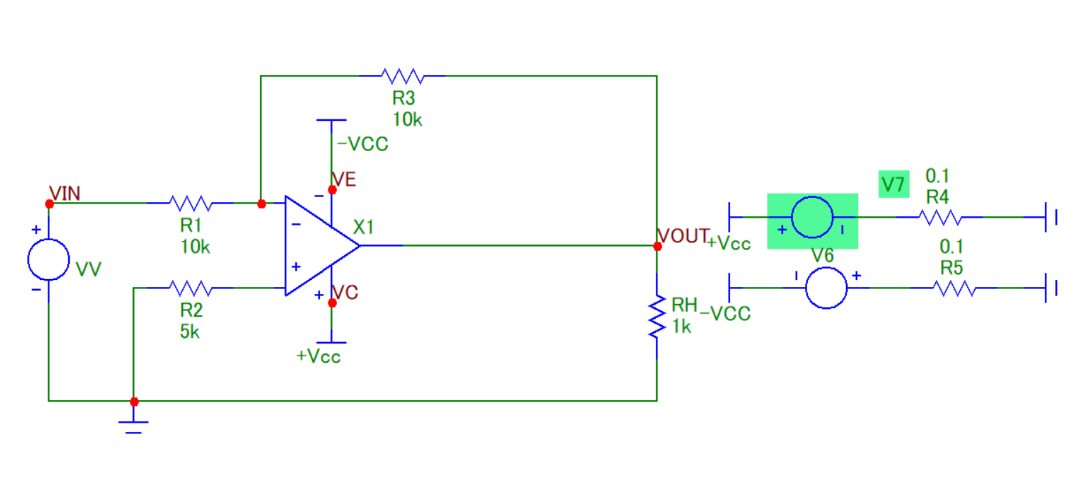
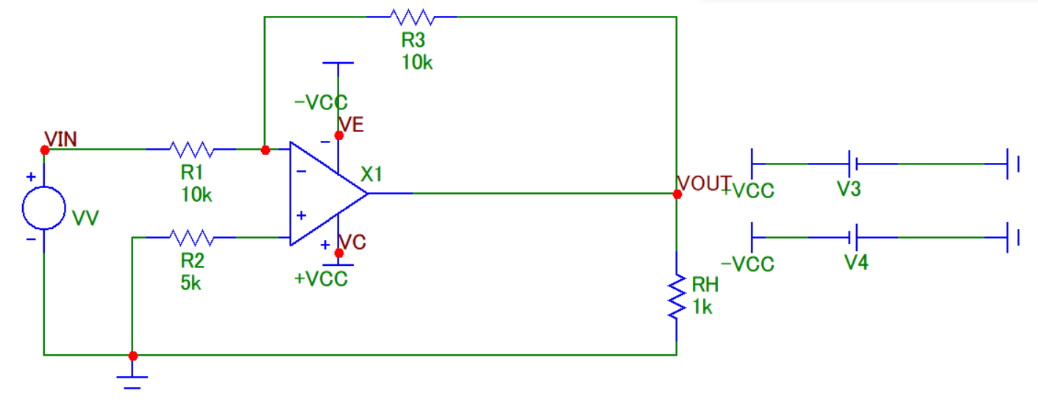
lab2

Changed region(s): [[0.0, 0.2177, 0.9865, 0.933], [0.2158, 0.0311, 0.6474, 0.2799]]

diff --git a/Lab_02/Text/main.tex b/Lab_02/Text/main.tex
@@ -22,35 +22,81 @@
 \begin{figure}[H]
 	\centering
 	\includegraphics[width=0.9\linewidth]{image/sh_op}
-	\caption{}
+	\caption{Собранная схема}
 	\label{fig:shop}
 \end{figure}
 
-Построим осциллограмму входного и выходного сигнала для 
+Построим осциллограммы для входного и выходного сигнала с гармонической, треугольной и прямоугольной формами сигнала с частотой 100кГц.
 
 \begin{figure}[H]
 	\centering
-	\includegraphics[width=0.7\linewidth]{image/graf_1k_garm}
-	\caption{}
+	\includegraphics[width=0.6\linewidth]{image/graf_1k_garm}
+	\caption{Осциллограмма синусоидального сигнала}
 	\label{fig:graf1kgarm}
 \end{figure}
 
 \begin{figure}[H]
 	\centering
-	\includegraphics[width=0.7\linewidth]{image/graf_1k_tre}
-	\caption{}
+	\includegraphics[width=0.6\linewidth]{image/graf_1k_tre}
+	\caption{Осциллограмма треугольного сигнала}
 	\label{fig:graf1ktre}
 \end{figure}
 
 \begin{figure}[H]
 	\centering
-	\includegraphics[width=0.7\linewidth]{image/graf_1k_rect}
-	\caption{}
+	\includegraphics[width=0.6\linewidth]{image/graf_1k_rect}
+	\caption{Осциллограмма прямоугольного сигнала}
 	\label{fig:graf1krect}
 \end{figure}
 
+Из осциллограмм получаем, что при частоте 100кГц сигнал инвертируется, но форма сигнала не меняется.
+
+Измерим максимальную скорость нарастания выходного прямоугольного сигнала (рис. \ref{fig:makssk}).
+
+\begin{figure}[H]
+	\centering
+	\includegraphics[width=0.5\linewidth]{image/maks_sk}
+	\caption{Измерение максимальной скорости нарастания выходного сигнала}
+	\label{fig:makssk}
+\end{figure}
+
+$$V = \dfrac{\Delta U}{\Delta t} = \dfrac{3.546B}{0.752212mc} = 4.714$$
+
+Максимальная скорость нарастания равна $4.714\dfrac{B}{mc}$.
+
+Построим АЧХ и ФЧХ.
+
+\begin{figure}[H]
+	\centering
+	\includegraphics[width=0.7\linewidth]{image/ACHFH}
+	\caption{АЧХ и ФЧХ}
+	\label{fig:achfh}
+\end{figure}
 
 
+Найдем полосу пропускания на АЧХ (рис. \ref{fig:achh}). Для этого отступим от 3дБ максимального значения. 
+
+\begin{figure}[H]
+	\centering
+	\includegraphics[width=0.7\linewidth]{image/ACHH}
+	\caption{АЧХ с измеренной полосой пропускания}
+	\label{fig:achh}
+\end{figure}
+
+Получаем полосу пропускания, равную 1.554МГц.
+
+Получим суммарный сдвиг фаз до полосы пропускания(рис. \ref{fig:afh}).
+
+\begin{figure}[H]
+	\centering
+	\includegraphics[width=0.7\linewidth]{image/AFH}
+	\caption{Суммарный сдвиг фаз в полосе пропускания на ФЧХ}
+	\label{fig:afh}
+\end{figure}
+
+Суммарный сдвиг фаз получился $66.983^{\circ}$.
+
+Найдем частоту
 
  \end{document} % конец документа
 
